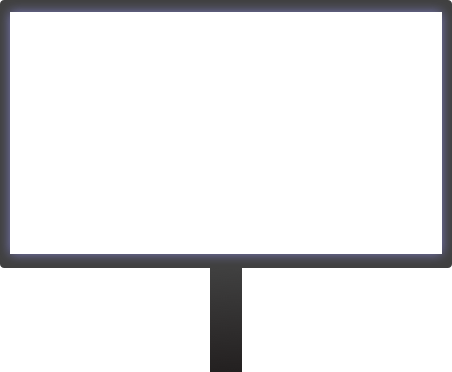
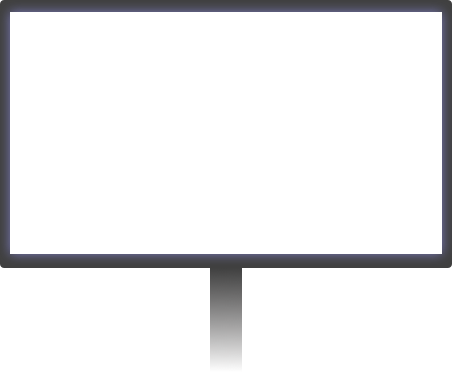
Update styles

Changed region(s): [[0.4646, 0.7392, 0.5575, 1.0]]

diff --git a/src/App.css b/src/App.css
@@ -72,7 +72,7 @@
 .slick-dots li button:before
 {
     font-family: 'slick';
-    font-size: 6px;
+    font-size: 32px;
     line-height: 20px;
 
     position: absolute;
@@ -171,8 +171,8 @@
 
 .mouse {
     height: 50px;
-    width: 35px;
-    border-radius: 16px;
+    width: 30px;
+    border-radius: 15px;
     border: 2px solid #fff;
     background: rgba(255, 255, 255, 0.25);
     box-sizing: border-box;
@@ -189,7 +189,7 @@
     animation: mouse 1.2s ease infinite
 }
 .arrow-scroll {
-    width: 35px;
+    width: 30px;
     margin-top: 10px
 }
 .arrow-scroll>span {

diff --git a/src/component/Anonymity.js b/src/component/Anonymity.js
@@ -10,7 +10,7 @@ const styles = {
     position: 'relative',
     backgroundSize: 'cover',
     border: '1px #BFBFFF solid',
-    height: 116,
+    height: 88,
     width: '100%',
     maxWidth: 375,
     boxSizing: 'border-box',
@@ -21,11 +21,12 @@ const styles = {
     textDecoration: 'none',
   },
   text: {
-    fontSize: 22,
+    fontSize: 16,
+    lineHeight: 1.5,
     textAlign: 'left',
     paddingLeft: 45,
     paddingRight: 40,
-    paddingTop: 10,
+    paddingTop: 0,
     display: 'flex',
   },
   iconWrap: {

diff --git a/src/component/Window.js b/src/component/Window.js
@@ -9,10 +9,11 @@ const styles = {
     height: 299,
     maxWidth: 326,
     backgroundImage: `url(${background})`,
-    backgroundSize: '326px 299px',
+    backgroundSize: '320px 300px',
+    backgroundPosition: 'center center',
     margin: '0 auto',
     boxSizing: 'border-box',
-    padding: 40,
+    padding: 44,
     paddingTop: 60,
     paddingBottom: 90,
     display: 'flex',

diff --git a/src/page/International.js b/src/page/International.js
@@ -12,7 +12,7 @@ import guides from '../assets/guides';
 
 import cover from '../assets/international-cover.jpg';
 import map from '../assets/international-map.jpg';
-import helloWorld from '../assets/hello_world.jpg';
+import helloWorld from '../assets/hello_world-300.png';
 
 const { title, subtitle, topic, content, anonymity } = international;
 

diff --git a/src/component/Text.js b/src/component/Text.js
@@ -4,9 +4,9 @@ const styles = {
   viewport: {
     fontSize: 22,
     textAlign: 'left',
-    paddingLeft: 20,
-    paddingRight: 20,
-    lineHeight: 1.2,
+    paddingLeft: 17,
+    paddingRight: 17,
+    lineHeight: 1.45,
   },
 };
 

diff --git a/src/page/Enter.js b/src/page/Enter.js
@@ -51,7 +51,7 @@ const styles = {
     left: '50%',
     bottom: 30,
     marginLeft: -17.5,
-    width: 35,
+    width: 30,
   },
   hackerMonitor: {
     position: 'absolute',

diff --git a/src/component/Event.js b/src/component/Event.js
@@ -27,6 +27,7 @@ const styles = {
     color: color.text,
   },
   text: {
+    width: '12em',
     fontSize: 13,
     textAlign: 'left',
     color: color.textAssist,
